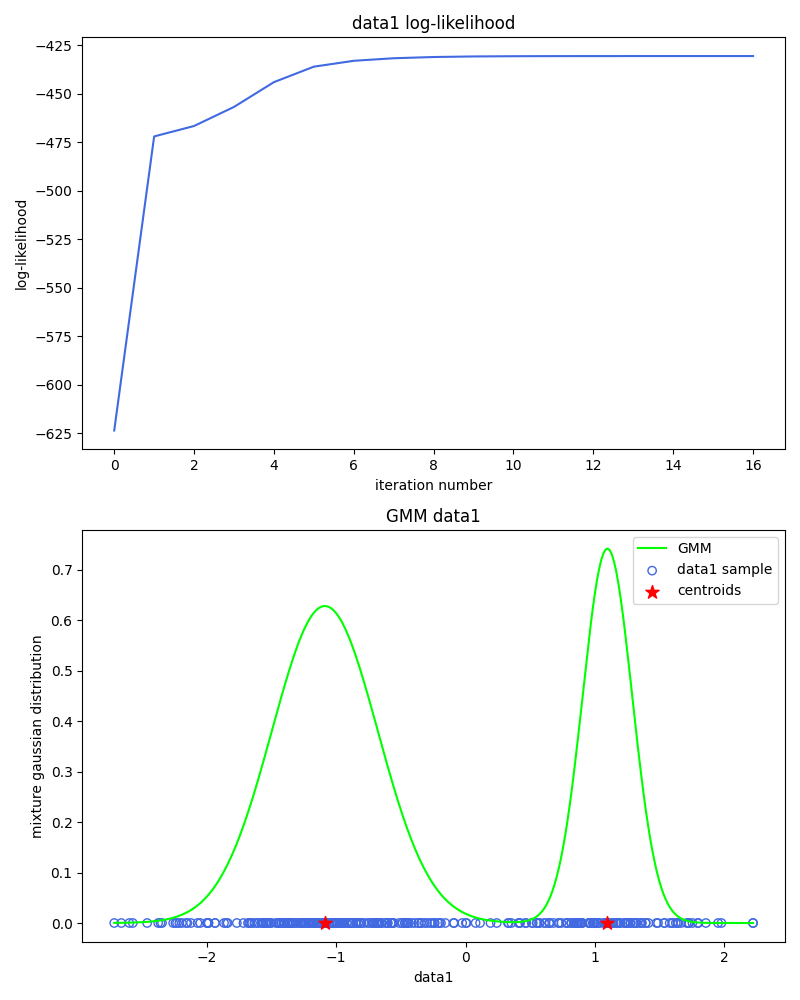
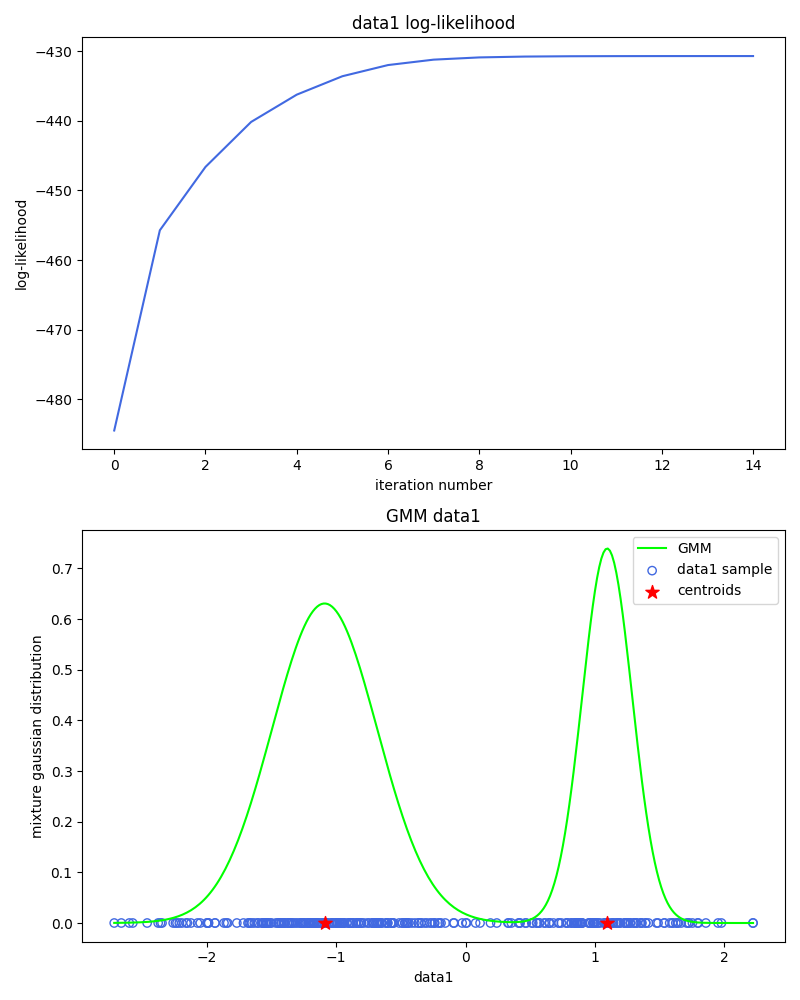
修正

diff --git a/ex7/r_tanaka/main.py b/ex7/r_tanaka/main.py
@@ -13,7 +13,6 @@ def stop_watch(func):
         start = time.time()
         result = func(*args, **kargs)
         process_time = round(time.time() - start, 4)
-        print("")
         print("--+--+--+--+--+--+--+--+--+--+--+--+--+--+--+--+--+--+--+--+--")
         print(f"It took {process_time} sec to process {func.__name__}")
         return result
@@ -132,6 +131,8 @@ def em_algorithm(input, pi, mu, sigma, epsilon=0.001, max_iter=50):
         # M step
         # update n_k
         n_k = np.sum(gamma, axis=1)  # shape = (k, )
+        # update pi
+        pi = n_k / n
 
         # update mu
         mu = (gamma @ input) / n_k[:, np.newaxis]  # shape = (k, dim)
@@ -143,9 +144,6 @@ def em_algorithm(input, pi, mu, sigma, epsilon=0.001, max_iter=50):
                 sigma[k] += gamma[k][j] * (input[j] - mu[k])[:, np.newaxis] @ (input[j] - mu[k])[np.newaxis, :]
         sigma /= n_k[:, np.newaxis, np.newaxis]  # (k, dim, dim) <- (k, dim, dim) / (k, 1, 1)
 
-        # update pi
-        pi = n_k / n
-
         new_loglikelihood = calc_loglikelihood(input, pi, mu, sigma)
         loglikelihood.append(new_loglikelihood)
 
@@ -156,6 +154,7 @@ def em_algorithm(input, pi, mu, sigma, epsilon=0.001, max_iter=50):
     return loglikelihood, pi, mu, sigma
 
 
+@stop_watch
 def k_means(input, k, max_iter=500):
     """k-means algorithm
 
@@ -191,7 +190,6 @@ def k_means(input, k, max_iter=500):
 
         # break if centrois has not changed
         if np.sum(new_centroids == centroids) == k:
-            print("break")
             break
         centroids = new_centroids
 
@@ -216,7 +214,8 @@ def main():
     n = data.shape[0]
     dim = data.shape[1]
     pi = np.full(k, 1 / k)
-    mu = np.random.randn(k, dim)
+    # mu = np.random.randn(k, dim)
+    mu = k_means(data, k)
     sigma = np.array([np.eye(dim) for _ in range(k)])
 
     # run em-algorithm & update parameters
